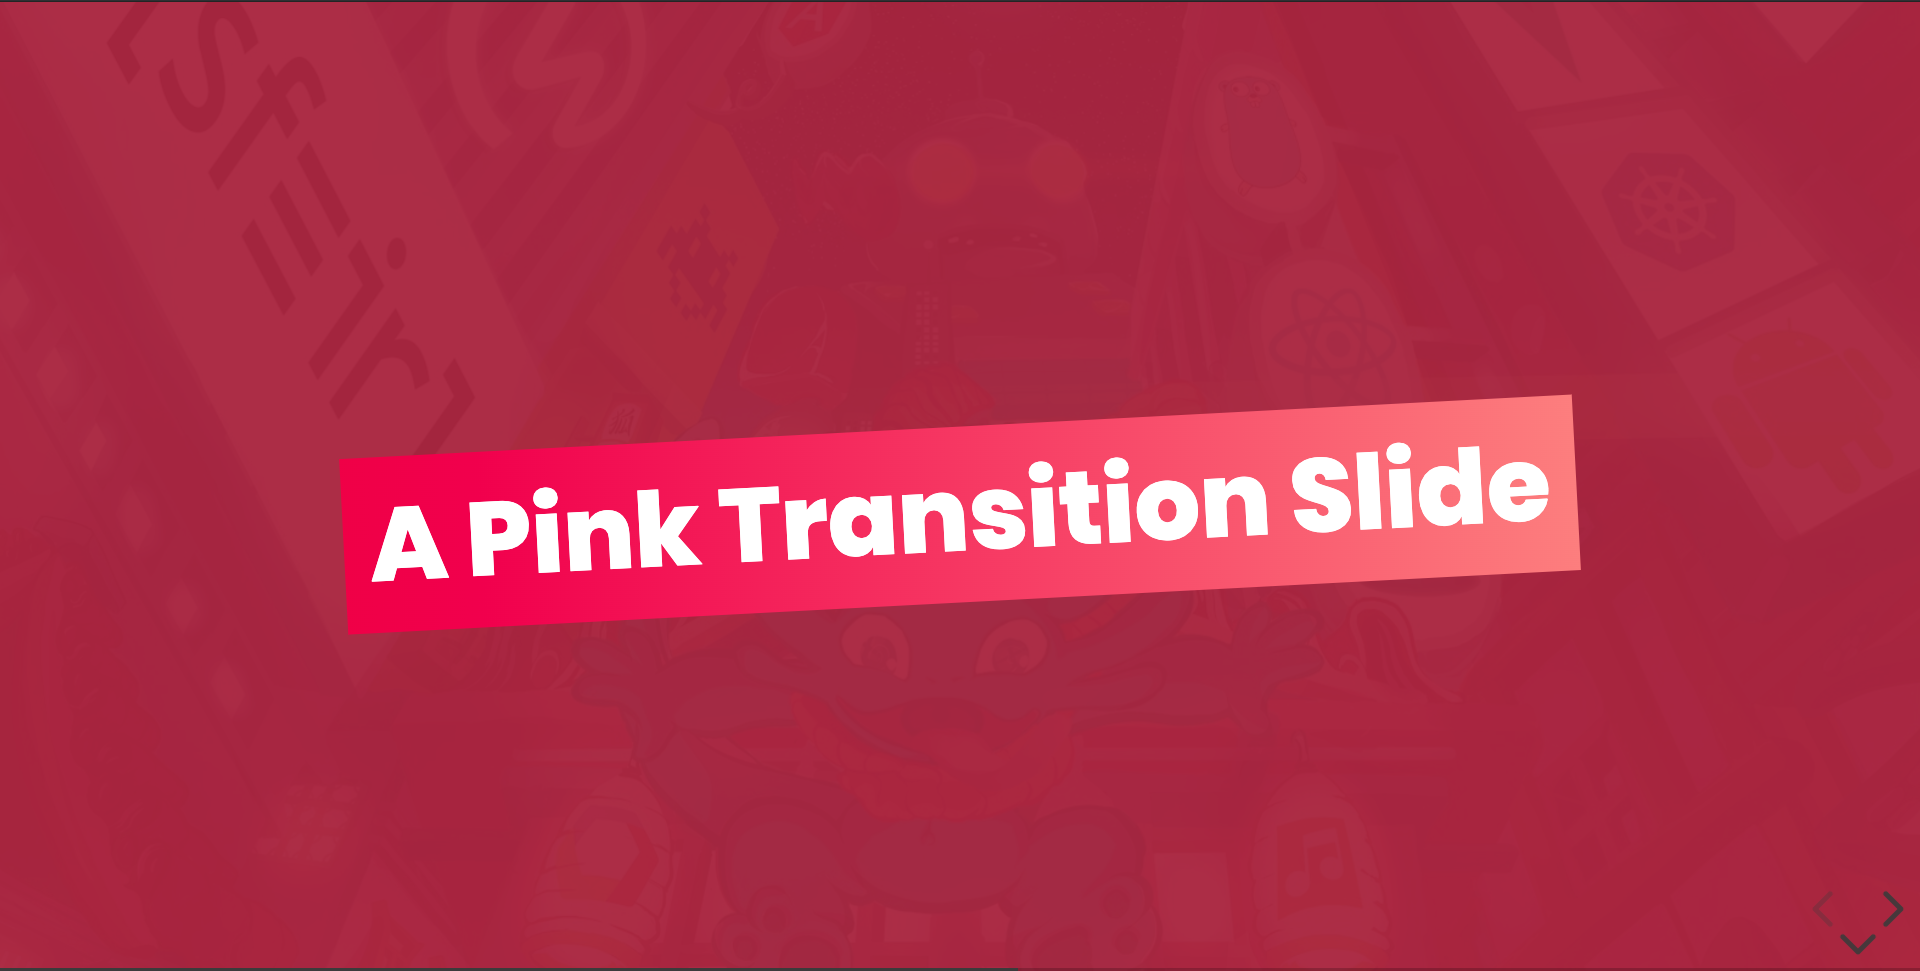
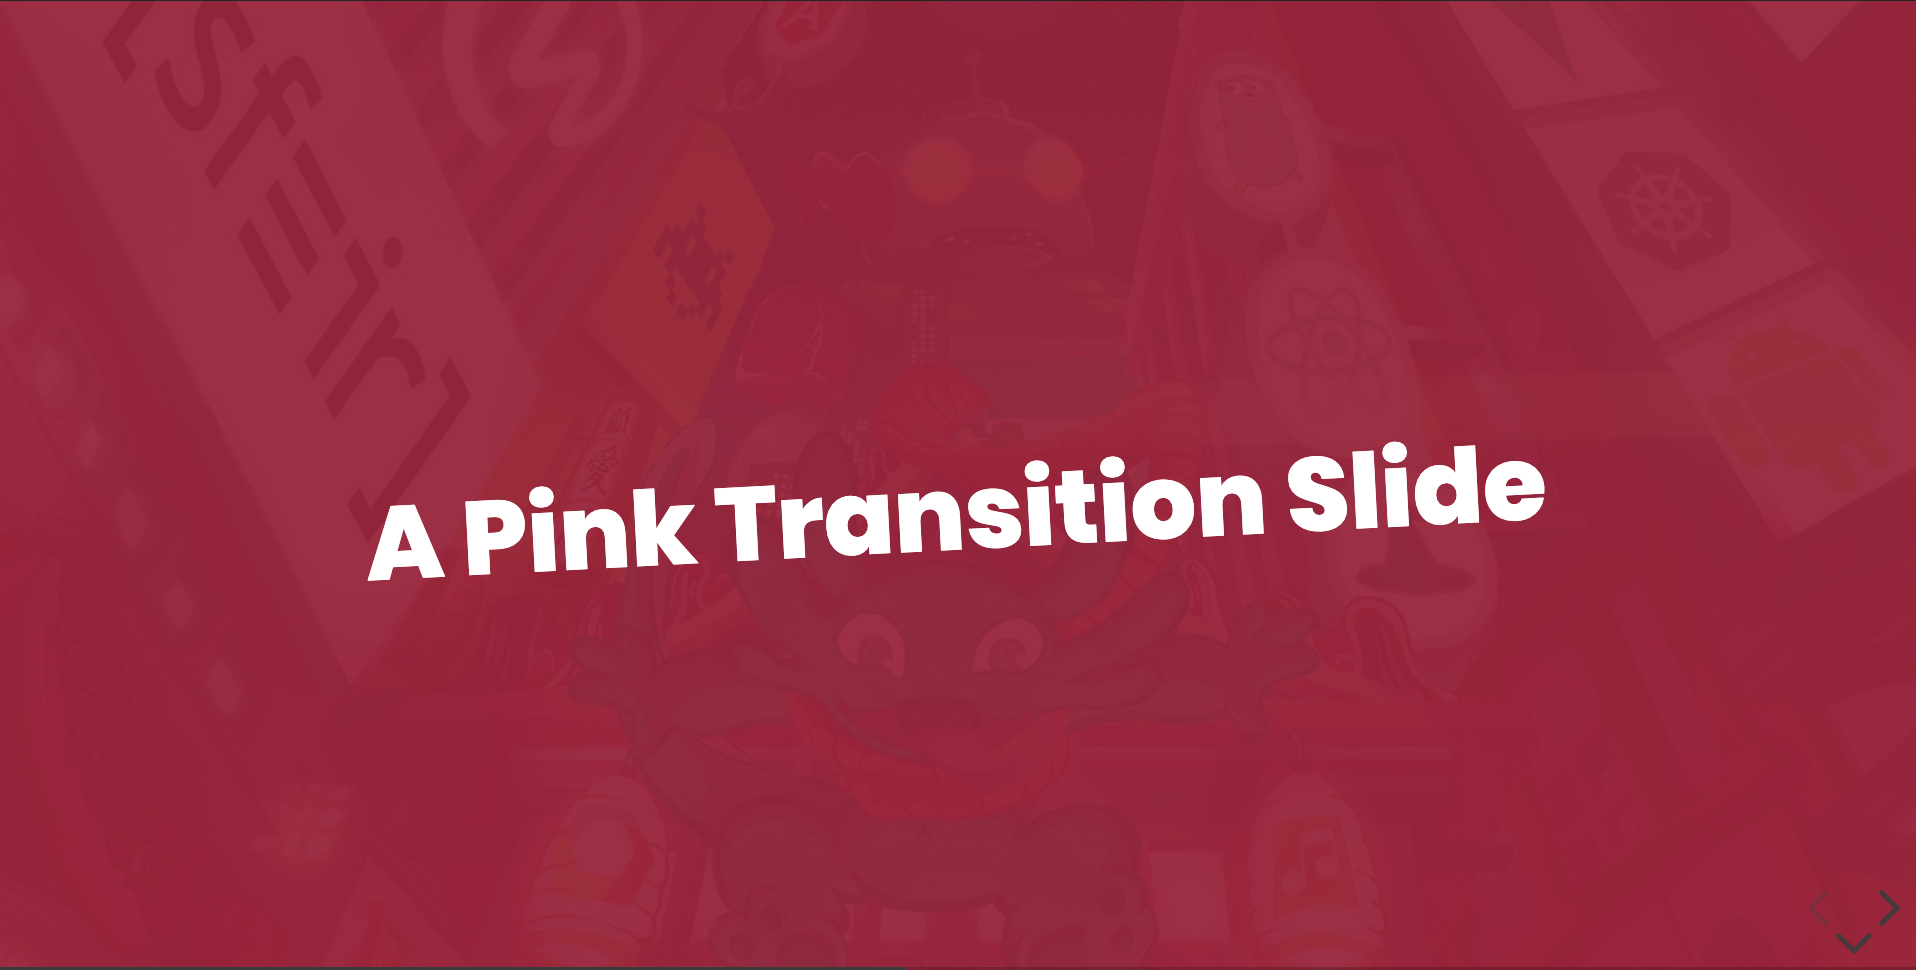
fix(graphics) fix lots of things link to #44

Changed region(s): [[0.154, 0.4021, 0.8314, 0.6495], [0.4619, 0.9897, 0.5235, 1.0]]

diff --git a/src/scss/theme/layout.scss b/src/scss/theme/layout.scss
@@ -5,7 +5,7 @@
 	ol, dl, ul {
 		line-height: 1.5em;
 		text-align: left;
-		margin: 0 0 0 1em;
+		margin: 0 0 0 0em;
 	}
 
 	ul{
@@ -81,23 +81,27 @@
 		color: $black;
       font-size: 1.5em;
       font-weight: 600;
-      padding-left: 25px; 
-      margin-left: 5px;
+	  
+	  
     }
 
     h1, h2, h3{
 			text-transform: initial;
-    	margin-bottom: 50px;
+    		margin-bottom: 130px;
 		}
 
    	h1~h2, h2~h3, h1~h3{
 			text-transform: initial;
-    	margin-top: -10px;
-    	padding-left: 30px;
+			margin-top: -90px;
+			margin-bottom: 40px;
 			color: $black;
 			font-size: 1em;
 	}
 	
+	table{
+		width: 100%;
+	}
+
 	thead{
 		background-color: $sfeir-pink;
 		color:$white;
@@ -130,7 +134,7 @@
 		position: absolute;
 		content: '';
 		width: 40%;
-		height: 20px;
+		height: 10px;
 		background-color: $sfeir-pink;
 		bottom: -30px;
 		left: 0;
@@ -164,11 +168,13 @@
 		opacity: 1;
 	}
 	section:nth-child(2){
+		margin-top: 50px;
 		grid-row-start: 2;
 		grid-column-end: 2;
 		opacity: 1;
 	}
 	section:last-child{
+		margin-top: 50px;
 		grid-row-start: 2;
 		grid-column-start: 2;
 		opacity: 1;

diff --git a/src/scss/theme/transition-slides.scss b/src/scss/theme/transition-slides.scss
@@ -27,6 +27,12 @@
         background: linear-gradient(to right, $sfeir-green-stop-1, $sfeir-green-stop-2);
     }
 
+    &.bg-blue h1,
+    &.bg-green h1,
+    &.bg-pink h1 {
+        background: none;
+    }
+
     &.underline{ 
         h1 {
             background: initial;
@@ -107,17 +113,17 @@
             height: 100%;
         }
     }
-
+   
     &.bg-white:after{
-        background:  rgba(255, 255, 255, 0.7);
+        background:  rgba(255, 255, 255, 0.6);
     }
     &.bg-blue::after{
-        background:  rgba(87, 94, 170, 0.7);
+        background:  rgba(87, 94, 170, 0.6);
     }
     &.bg-green::after{
-        background:  rgba(10, 181, 128, 0.7);
+        background:  rgba(10, 181, 128, 0.6);
     }
     &.bg-pink::after{
-        background:  rgba(221, 51, 85, 0.7);
+        background:  rgba(221, 51, 85, 0.6);
     }
 }

diff --git a/src/scss/utils/helper.scss b/src/scss/utils/helper.scss
@@ -36,11 +36,7 @@
       float: right;
       margin-left: 10px;
     }
-
-    img[alt*=polygon], img.polygon { 
-        clip-path: polygon(50% 0%, 100% 25%, 100% 75%, 50% 100%, 0% 75%, 0% 25%);
-      }
-
+   
 }
 
 /**

diff --git a/src/scss/theme/code-slides.scss b/src/scss/theme/code-slides.scss
@@ -19,7 +19,7 @@
     pre {
         display: block;
         position: relative;
-        width: 90%;
+        width: 100%;
         margin: 20px auto;
         text-align: left;
         font-family: monospace;

diff --git a/demo/md/40_helpers.md b/demo/md/40_helpers.md
@@ -276,7 +276,7 @@ Div background:
 ## First way
 
 
-![full-width](./assets/images/logo_sfeir_bleu_orange.png)
+![full-width](./assets/images/Sfeir-Gris-vector.svg)
 
 ##--##
 
@@ -285,7 +285,7 @@ Div background:
 # Code to produce / Markdown
 
 ```markdown
-![full-width](./assets/images/logo_sfeir_bleu_orange.png)
+![full-width](./assets/images/Sfeir-Gris-vector.svg)
 ```
 <!-- .element: class="big-code" -->
 
@@ -296,7 +296,7 @@ Div background:
 
 ## Second way
 
-<img class="full-width" src="./assets/images/logo_sfeir_bleu_orange.png">
+<img class="full-width" src="./assets/images/Sfeir-Gris-vector.svg">
 
 
 ##--##
@@ -306,7 +306,7 @@ Div background:
 # Code to produce / Markdown
 
 ```markdown
-<img class="full-width" src="./assets/images/logo_sfeir_bleu_orange.png">
+<img class="full-width" src="./assets/images/Sfeir-Gris-vector.svg">
 ```
 <!-- .element: class="big-code" -->
 
@@ -318,8 +318,8 @@ Div background:
 # Image with full height
 
 Div with height of 600px;
-<div style="height:600px; width:100%; background:red;">
-    <img class="full-height" src="./assets/images/logo_sfeir_bleu_orange.png">
+<div style="height:600px; width:100%; border: dashed 3px grey;">
+    <img class="full-height" src="./assets/images/Sfeir-Gris-vector.svg">
 </div>
 
 ##--##
@@ -331,8 +331,8 @@ Div with height of 600px;
 ```markdown
 <!-- .slide: style="height:100%" -->
 
-<div style="height:600px; width:100%; background:red;">
-    <img class="full-height" src="./assets/images/logo_sfeir_bleu_orange.png">
+<div style="height:600px; width:100%; border: dashed 3px grey;">
+    <img class="full-height" src="./assets/images/Sfeir-Gris-vector.svg">
 </div>
 ```
 <!-- .element: class="big-code" -->
@@ -430,46 +430,6 @@ Lorem ipsum dolor sit amet, consectetur adipiscing elit. Proin nec risus leo. Ve
 
 Lorem ipsum dolor sit amet, consectetur adipiscing elit. Proin nec risus leo. Vestibulum condimentum orci in urna auctor aliquet. Quisque mi erat, placerat non porttitor ut, gravida eu erat. Fusce semper ipsum vel nibh porttitor aliquam. Cras sed porttitor est, id scelerisque odio. Pellentesque sit amet imperdiet ex. Aliquam erat.
 ```
-
-##==##
-
-# Slide with polygon image
-
-## First way
-
-![center polygon h-400](./assets/images/jf.jpg)
-
-##--##
-
-<!-- .slide: class="with-code" -->
-
-# Code to produce / Markdown
-
-```markdown
-![center polygon h-400](./assets/images/jf.jpg)
-```
-<!-- .element: class="big-code" -->
-
-
-##==##
-
-# Slide with polygon image
-
-## Second way
-
-<img src="./assets/images/jf.jpg" class="center polygon h-400">
-
-##--##
-
-<!-- .slide: class="with-code" -->
-
-# Code to produce / Markdown
-
-```markdown
-<img src="./assets/images/jf.jpg" class="center polygon h-400">
-```
-<!-- .element: class="big-code" -->
-
 
 
 ##==##

diff --git a/README.md b/README.md
@@ -600,20 +600,7 @@ Lorem ipsum dolor sit amet, consectetur adipiscing elit. Proin nec risus leo. Ve
 ```
 ![](./assets/helper-float-left.png)
 
-### Polygon border for images
-
-You can use float-right or float-left display 
-
-```markdown
-<!-- First way -->
-![polygon](./assets/images/jfg.png)
-
 Lorem ipsum dolor sit amet, consectetur adipiscing elit. Proin nec risus leo. Vestibulum condimentum orci in urna auctor aliquet. Quisque mi erat, placerat non porttitor ut, gravida eu erat. Fusce semper ipsum vel nibh porttitor aliquam. Cras sed porttitor est, id scelerisque odio. Pellentesque sit amet imperdiet ex. Aliquam erat.
-
-<!-- Second way -->
-<img class="polygon" src="./assets/images/jfg.png">
-```
-![](./assets/helper-polygon.png)
 
 ### Create content for the restitution only
 
